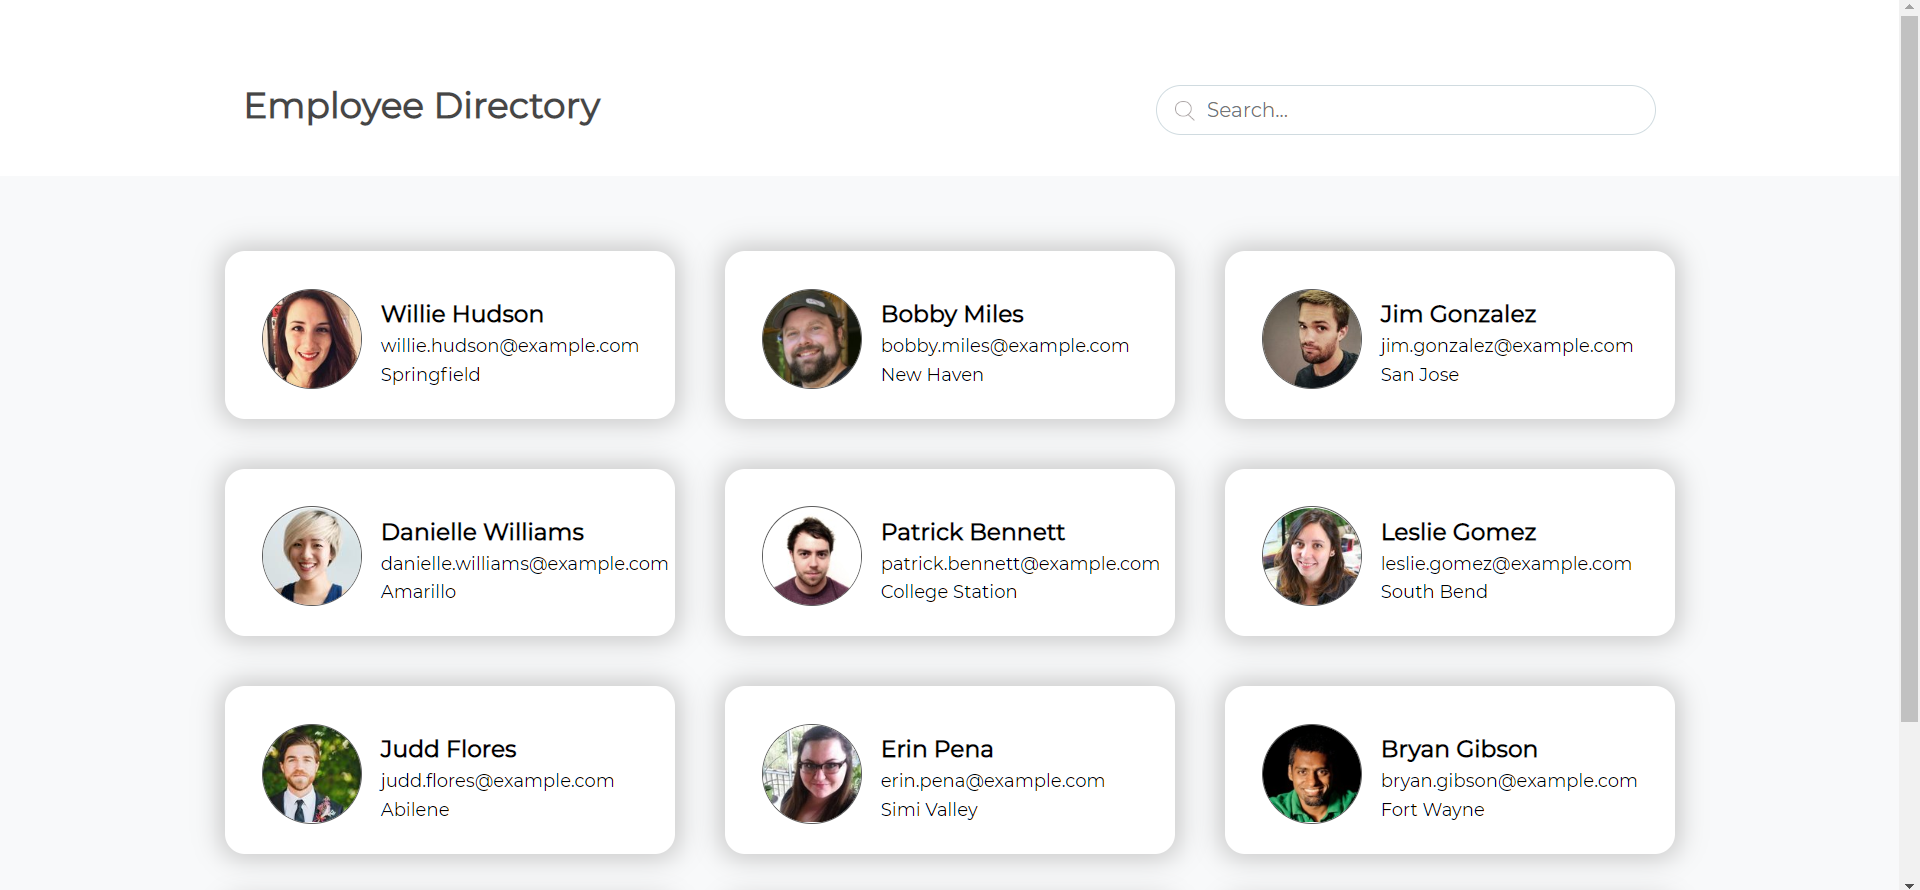
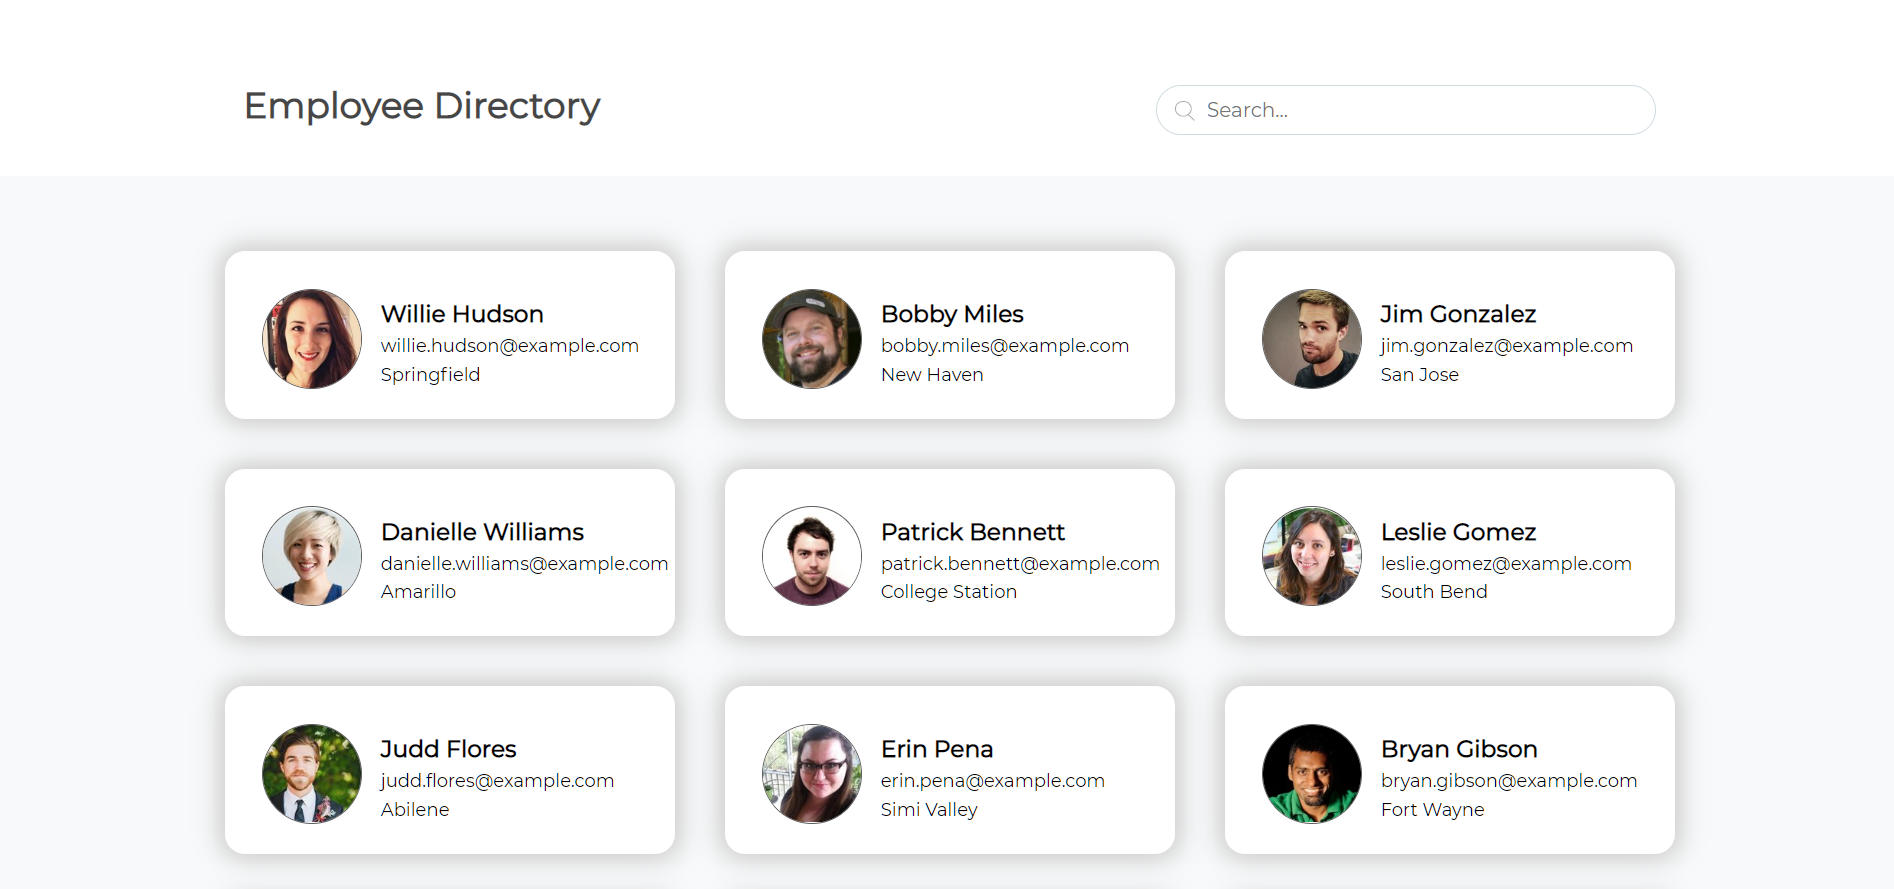
css changes, pug changes

diff --git a/public/css/foundation.css b/public/css/foundation.css
@@ -454,7 +454,7 @@ body {
 img {
   display: inline-block;
   vertical-align: middle;
-  max-width: 100%;
+  max-width: 80%;
   height: auto;
   border-radius: 50%;
   -ms-interpolation-mode: bicubic; }
@@ -541,7 +541,8 @@ textarea {
       flex: 0 0 auto;
   min-height: 0px;
   min-width: 0px;
-  width: 100%; }
+  width: 100%;
+  text-align: center; }
   .cell.auto {
     -ms-flex: 1 1 0px;
         flex: 1 1 0px; }
@@ -2256,7 +2257,8 @@ h3, .h3 {
   font-size: 1.1875rem;
   line-height: 1.4;
   margin-top: 0;
-  margin-bottom: 0.5rem; }
+  margin-bottom: 0.5rem;
+  text-align: left; }
 
 h4, .h4 {
   font-size: 1.125rem;
@@ -2267,7 +2269,7 @@ h4, .h4 {
 h5, .h5 {
   font-size: 1.0625rem;
   line-height: 1.4;
-  margin-top: 0;
+  margin-top: 15px;
   margin-bottom: 0.5rem; }
 
 h6, .h6 {
@@ -2278,7 +2280,7 @@ h6, .h6 {
 
 @media print, screen and (min-width: 40em) {
   h1, .h1 {
-    font-size: 3rem; }
+    font-size: 4rem; }
   h2, .h2 {
     font-size: 2.5rem; }
   h3, .h3 {
@@ -2322,7 +2324,10 @@ li {
 
 ul {
   margin-left: 1.25rem;
-  list-style-type: disc; }
+  list-style-type: disc;
+  text-align: left;
+  list-style-type: none;
+  margin: 0; }
 
 ol {
   margin-left: 1.25rem; }
@@ -4613,7 +4618,7 @@ html.is-reveal-open body {
     .reveal.large {
       width: 90%;
       max-width: 75rem; } }
-  .reveal.full {
+  .reveal.fl {
     top: 0;
     left: 0;
     width: 100%;
@@ -4989,7 +4994,6 @@ table.hover:not(.unstriped) tr:nth-of-type(even):hover {
   display: inline-block;
   max-width: 100%;
   margin-bottom: 1rem;
-  border: solid 4px #fefefe;
   border-radius: 0;
   box-shadow: 0 0 0 1px rgba(10, 10, 10, 0.2);
   line-height: 0; }

diff --git a/public/css/style.css b/public/css/style.css
@@ -1,4 +1,4 @@
-@import url('https://fonts.googleapis.com/css?family=Heebo|Libre+Franklin&display=swap');
+@import url('https://fonts.googleapis.com/css?family=Heebo:700|Libre+Franklin&display=swap');
 
 h1,h2,h3,h4,h5{
   font-family: 'Heebo', serif;
@@ -11,7 +11,6 @@ p {
 
   h5{
     font-family: 'Heebo', 'Helvetica Neue', Helvetica, Arial, sans-serif;
-    letter-spacing: 2.5px;
     -webkit-text-transform: uppercase;
     text-transform: uppercase;
   }
@@ -56,9 +55,7 @@ a:hover{
   display: inline-block;
   max-width: 100%;
   margin-bottom: 1rem;
-  border: solid 4px #fefefe;
   border-radius: 0;
-  box-shadow: 0 0 0 1px rgba(10, 10, 10, 0.2);
   line-height: 0;
 }
 
@@ -66,6 +63,7 @@ a:hover{
   padding: 20px;
   background: #f2f2f2;
   color: #000;
+  width: 16%;
   box-shadow: none !important;
 }
 
@@ -91,7 +89,6 @@ a:hover{
 .portfolio-breadcrumb{
   margin: 0;
   padding: 20px;
-  border-bottom: 1px solid #eaeaea;
 }
 
  .portfolio-breadcrumb a{
@@ -105,7 +102,7 @@ a:hover{
 
 .portfolio-intro{
   margin: 0;
-  padding: 60px 100px 30px;
+  padding: 100px 100px 30px;
 }
 
 .portfolio-intro p{
@@ -114,7 +111,7 @@ a:hover{
 
 .portfolio-index{
   margin: 0;
-  padding: 10px 50px;
+  padding: 10px 50px 0px 100px;
 }
 
   .portfolio-index .thumbnail{
@@ -130,11 +127,11 @@ a:hover{
   }
 
     .portfolio-index .cell h5{
-      letter-spacing: 1px;
+      letter-spacing: 0px;
     }
 
 .portfolio-meta{
-  padding-left: 20px;
+  padding-left: 60px;
 }
 
   .portfolio-meta .button{
@@ -152,4 +149,5 @@ a:hover{
 
 .portfolio-bio{
     line-height: 25px;
+    text-align: left;
 }

diff --git a/README.md b/README.md
@@ -1,10 +1,15 @@
 CSS Changes:
 
+
+
+
+
 STYLE CSS ------------
 
 .portfolio.me
  background: #f2f2f2
  color: #fff
+ width: 16%
 
 h1,h2,h3,h4,h5 
  font-family: 'Heebo'
@@ -13,6 +18,7 @@ h1,h2,h3,h4,h5
 
 h5
  font-family: 'Heebo'
+ --removed letter spacing--
 
 .text-light
  color: #8F8F8F
@@ -21,17 +27,57 @@ h5
  --removed bottom border--
 
 .portfolio-intro
-  padding: 60px 100px 30px;
+  padding: 100px 100px 30px
+
+.image
+ --removed border--
+ --removed box shadow--
+
+
+.portfolio-index .cell h5
+  letter-spacing: 0px
+
+.portfolio-breadcrumb
+ --removed bottom border--
+
+.portfolio-meta
+  padding-left: 60px
+
+
 
 
 FOUNDATION CSS -----------
 
 img
  border-radius: 50%
+ max-width: 80%
+
+.thumbnail
+ --removed border--
+
+h3
+ text-align: left
+
+h5
+ margin-top: 15px
+
+.portfolio-bio
+  text-align: left
+
+ul
+  text-align: left
+  list-style-type: none
+  margin: 0
 
 
 
 
+
+
+ABOUT.PUG -------------
+
+  --removed-- 
+    bottom a(href='/') ? Back
 
 
 
